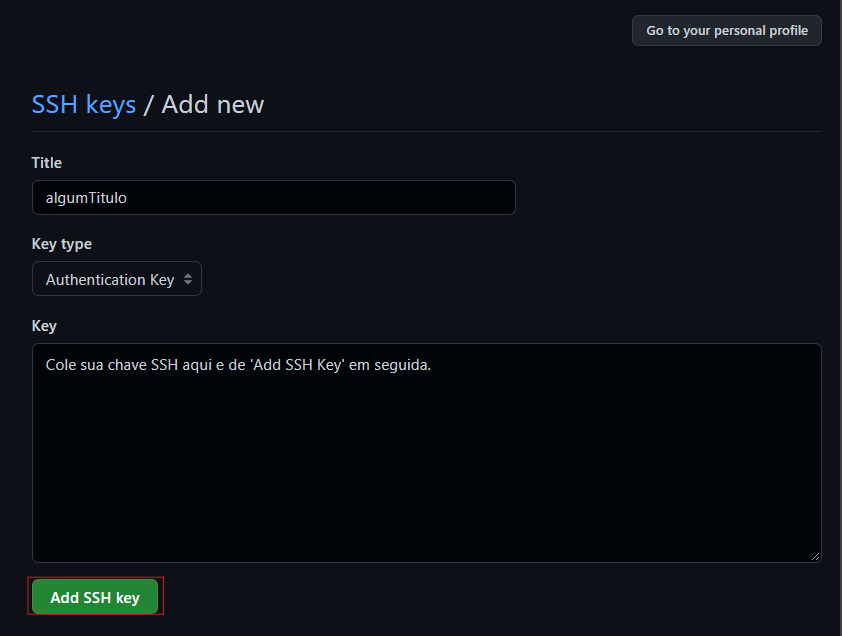
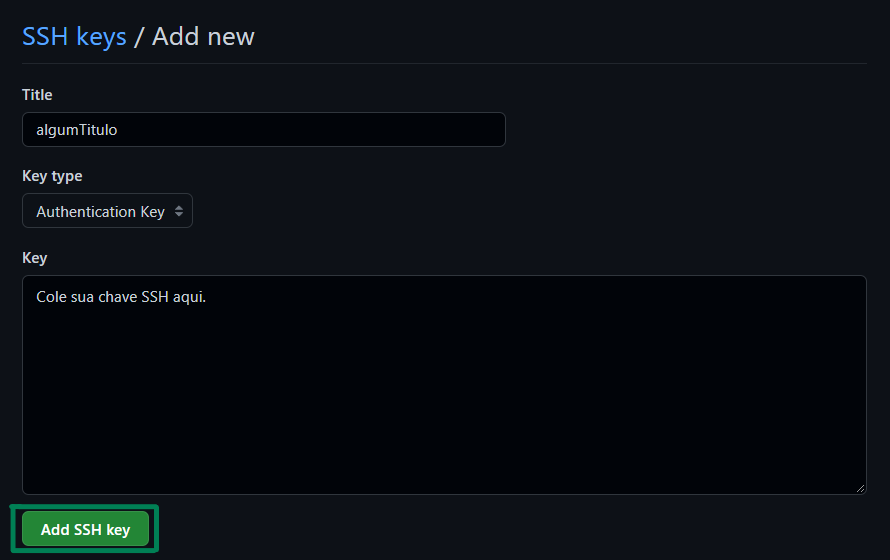
Readme melhorado/modificado e pasta images alterada.

diff --git a/Readme.md b/Readme.md
@@ -1,84 +1,97 @@
-### Esse é um guia prático sobre Git e Github.
-<br/>
-<p>Git é um conceito importante, tanto para project-side quando para projetos profissionais. O mesmo é basicamente um sistema de versionamento de arquivos, onde podemos volta a alguma alteração do código é possível trabalhar em equipe ou sozinho.</p>
-<p>Já GitHub é uma plataforma para hospedagem de arquivos que estão sofrendo esses versionamentos.</p>
+<p>Git é um conceito importante, tanto para project-side quando para projetos profissionais. O mesmo é basicamente um sistema de versionamento de arquivos, onde podemos volta a alguma alteração do código sendo possível trabalhar em equipe ou sozinho.</p>
+<p>Já o GitHub é uma plataforma para hospedagem de arquivos que estão sofrendo esses versionamentos.</p>
 
-## Baixando de instalando o git.
+## Baixando e instalando o Git.
 
-* Acesse: [Git Downloads](https://git-scm.com/downloads) e inicie o download.
+* Acesse: [Git Downloads](https://git-scm.com/downloads), inicie o download e prossiga com a instalação.
 
-* Prossiga com a instalação. Exemplo passo a passo abaixo:
+* Passo a passo abaixo:
 
 <img src="images/gitDownload01.png">
 <img src="images/gitDownload02.png">
+
+* Após isso, execute o instalador e siga o processo.
+
 <img src="images/gitDownload03.png">
+<img src="images/gitDownload04.png">
 
-## Comandos iniciais de configurações do git:
-Antes de começarmos, é interessante verificar se o git está instalado corretamente em sua maquina. Para isso execute em seu terminal: `git --version`.
+Antes de começarmos, é interessante verificar se o Git está instalado corretamente em sua maquina. Para isso execute em seu terminal: `git --version`.
 
-Estará tudo certo para próximos passo, se houver  um retorno dizendo a versão do git. É preciso definir as seguintes configurações:
-* Definindo nome de usuário: `git config --global user.name “Seu Nome”`
-* Definindo e-mail: `git config --global user.name “Seu Nome”`
-* Definindo o editor de código: `git config --global core.editor nomeEditor`
+## Comandos iniciais de configuração do git:
 
-Verificando configurações definidas: 
+Estará tudo certo para próximos passos, se houver  um retorno dizendo a versão do Git. Logo é preciso definir as seguintes configurações:
+* Nome de usuário, execute: `git config --global user.name “Seu Nome”`
+* E-mail, execute: `git config --global user.name “Seu Nome”`
+* Editor de código, execute: `git config --global core.editor nomeEditor`
+
+E para verificar as configurações definidas execute: 
 * `git config user.name` - Nome de usuário.
 * `git config user.email` - E-mail.
 * `git config core.editor` - Editor de código.
 * `git config --list` - Outras informações.
 
 ## Conectando repositório local ao remoto.
-Para podermos fazer a migração do repositório local ao remoto precisamos gerar uma SSH KEY e para isso é necessário entrar no terminal do git bash (que já foi instalado juntamente com o git).
-* [Aqui está o guia para gerar chave SHH](https://docs.github.com/pt/authentication/connecting-to-github-with-ssh/generating-a-new-ssh-key-and-adding-it-to-the-ssh-agent).
+Para podermos fazer a migração do repositório local ao remoto precisamos gerar uma SSH KEY e para isso é necessário acessar o terminal Git Bash (que já foi instalado juntamente com o Git).
+* [Aqui está o guia para gerar sua chave SSH](https://docs.github.com/pt/authentication/connecting-to-github-with-ssh/generating-a-new-ssh-key-and-adding-it-to-the-ssh-agent).
 
-Mas basicamente é acessar o git bash e inserir os comandos:
-* `sshkeygen -t rsa 4096 -C seuEmail@exemplo.com` (Precisa ser seu e-mail do github). 
+* Mas basicamente é acessar o Git Bash e inserir o comando: `sshkeygen -t rsa 4096 -C seuEmail@exemplo.com` (Seu e-mail do GitHub). 
 
 Seu retorno será: 
 * `Generating public/private ALGORITHM key pair`, de enter.
 * `Enter a file in which to save the key (/c/Users/YOU/.ssh/id_ALGORITHM):[Press enter]`, de enter.
 * `Enter passphrase (empty for no passphrase): [Type a passphrase]`, de enter (Crie ou não crie uma senha).
-* `Enter same passphrase again: [Type passphrase again]`, de enter (Se criou uma senha, digite novamente).
+* `Enter same passphrase again: [Type passphrase again]`, de enter (Se criou uma senha, digite ela novamente).
 
-Adicionando uma nova chave SSH à sua conta do GitHub:
-* [Aqui está o guia para adicionar chave SHH no GitHub](https://docs.github.com/pt/authentication/connecting-to-github-with-ssh/generating-a-new-ssh-key-and-adding-it-to-the-ssh-agent).
-* Acesse: '/c/Users/YOU/.ssh/id_ALGORITHM' e abra o arquivo 'id_rsa.pub' com bloco de notas e copie sua chave SSH. 
+Adicionando sua chave SSH à sua conta do GitHub:
+* [Aqui está o guia para adicionar chave SSH no GitHub](https://docs.github.com/pt/authentication/connecting-to-github-with-ssh/generating-a-new-ssh-key-and-adding-it-to-the-ssh-agent).
 
-Agora no GitHub, siga as instruções nas imagens abaixo: 
+* Mas basicamente é acessar: `C:/Users/YOU/.ssh`, abrir o arquivo 'id_rsa.pub' com bloco de notas ou seu editor de código e copiar sua chave SSH. 
+
+Agora acesse sua conta GitHub e siga as instruções abaixo: 
+
+* Acesse `Settings`, após clicar na sua foto de perfil.
 
 <img src="images/chaveSSH01.png">
+
+* Na seção `Access`, clique em `SSH and GPG Keys`.
+
 <img src="images/chaveSSH02.png">
+
+* Após, clique em `New SSH key`.
+
 <img src="images/chaveSSH03.png">
+
+* Insira um título para essa chave em `Tittle`, cole sua chave SSH em `Key` e prossiga clicando em `Add SSH key`.
+
 <img src="images/chaveSSH04.png">
 
-E por último. Se solicitado, confirme acesso à sua conta em GitHub, após isso já estamos prontos para usar o git.
+E por último. Se solicitado, confirme acesso à sua conta em GitHub, após isso já estamos prontos para usar o Git juntamente com o GitHub.
 
-## Iniciando projetos com o git.
+## Iniciando projetos com o Git.
 
-Antes de apresentar os comandos a você irei explicar sobre os conceitos "master" e "branch". 
-* Master/main é a versão principal do projeto.
-* Branch é alguma ramificação (versão diferente) do projeto principal.
-
-Após entender isso, abra seu projeto pelo terminal do git bash, ou acesse o terminal dentro do seu editor de código. Com essa última opção é interessante utilizar a extensão "Terminal", caso use o VS CODE.
+Antes de apresentar os comandos a você irei explicar os conceitos "master" e "branch". 
+* Master/main é a branch principal do projeto.
+* Branch é alguma ramificação (versão) do projeto principal.
+* Após entender isso, abra seu projeto pelo terminal do Git Bash, ou acesse o terminal dentro do seu editor de código. Com essa última opção é interessante utilizar a extensão "Terminal", caso use o VS CODE.
 
 <img src="images/terminal.png">
 
-É possível acessar de forma rápida o terminal clicando nesse icon, na parte inferior do VS CODE:
+* Com ela instalada é possível acessar de forma rápida o terminal clicando nesse icon, que fica na parte inferior do VS CODE:
 
 <img src="images/terminalAcesso.png">
 
-## Comandos do git:
-Abaixo disponibilizo os comandos mais usado e necessários: 
-* `git init` - Para iniciar um repositório e é possivel dar inicio em projetos, seja ele vazio ou já desenvolvidos.
+## Comandos do Git:
+Abaixo disponibilizo os comandos mais usado: 
+* `git init` - Para iniciar um repositório e é possível dar inicio, seja ele um projeto vazio ou já desenvolvido.
 * `git status` - Para verificar se alguma alteração.
-* `git log` - Para ver todos os commit já feito.
-* `git add -A` - Para adicionar arquivos ao monitoramento do git.
-* `git add arquivo` - Para adicionar arquivo especifico ao monitoramento do git. 
+* `git log` - Para ver todos os commits já feito.
+* `git add -A` - Para adicionar arquivos ao monitoramento do Git.
+* `git add arquivo` - Para adicionar arquivo especifico ao monitoramento do Git. 
 
 <br>
 
-* `git commit -m "algumComentário"` - Para enviar alterações do projeto para o git.
-* `git commit -am "algumComentário"` - Para adiciona e commitar as alterações ao mesmo tempo.
+* `git commit -m "algumComentário"` - Para enviar alterações do projeto para o Git.
+* `git commit -am "algumComentário"` - Para adicionar e commitar as alterações ao mesmo tempo no Git.
 
 <br>
 
@@ -95,31 +108,32 @@ Abaixo disponibilizo os comandos mais usado e necessários:
 
 <br>
 
-* `git push -u origin branch` - Para enviar repositório local para o github.
+* `git push -u origin branch` - Para enviar repositório local para o GitHub.
 * `git push origin :nomeBranch` - Para deletar branch remotamente.
 
 <br>
 
-* `git reset -soft codigoCommit` - Para voltar a algum commit que é necessário dar git commit.
-* `git reset -mixed codigoCommit` - Para voltar a algum commit que é necessário dar git add.
+* `git reset -soft codigoCommit` - Para voltar a algum commit que é necessário dar commit.
+* `git reset -mixed codigoCommit` - Para voltar a algum commit que é necessário dar add.
 * `git reset --hard codigoCommit` - Para voltar totalmente a algum commit.
 
 <br> 
 
-* `git diff` - Para saber o que foi alterado no codigo.
-* `git diff --name-only` - Para saber quais arquivos foi alterado.
+* `git diff` - Para saber o que foi alterado no código.
+* `git diff --name-only` - Para saber quais arquivos foram alterado.
 * `git diff nomeArquivo` - Para saber o que foi alterado em um arquivo especifico.
 
 <br>
 
-* `git remote add origin linkRepositório` - Para hospedar o projeto que está localmente no github.
+* `git remote add origin linkRepositório` - Para hospedar algum projeto no GitHub.
 * `git revert  --no-edit codigoCommit` - Para reverter apenas alterações de algum commit. 
 * `git clone linkRepositorio` - Para clonar um repositório.
 * `git marge <branch>` - Para a junção de duas ou mais branch ao mesmo tempo.
-* `git pull origin <branch>`- Para puxar o que está no repositório github para sua maquina. 
-
-## Na prática: 
-
-
+* `git pull origin <branch>`- Para puxar o que está no repositório GitHub para sua maquina. 
 
 ## Finalização.
+Bom, chegamos ao final desse guia prático e espero que ele tenha ajudado você. Caso ficou alguma dúvida, entre em contato comigo pelo [Instagram](https://www.instagram.com/mayconviniciusdev/).
+
+Relembrando que existem diversas outras funcionalidade do Git e GitHub, porém com tudo isso apresentado você já conseguirá desenvolver um projeto com essa tecnologia. 
+
+Em breve irei adicionar uma seção de como usar na prática. Então, até mais.
